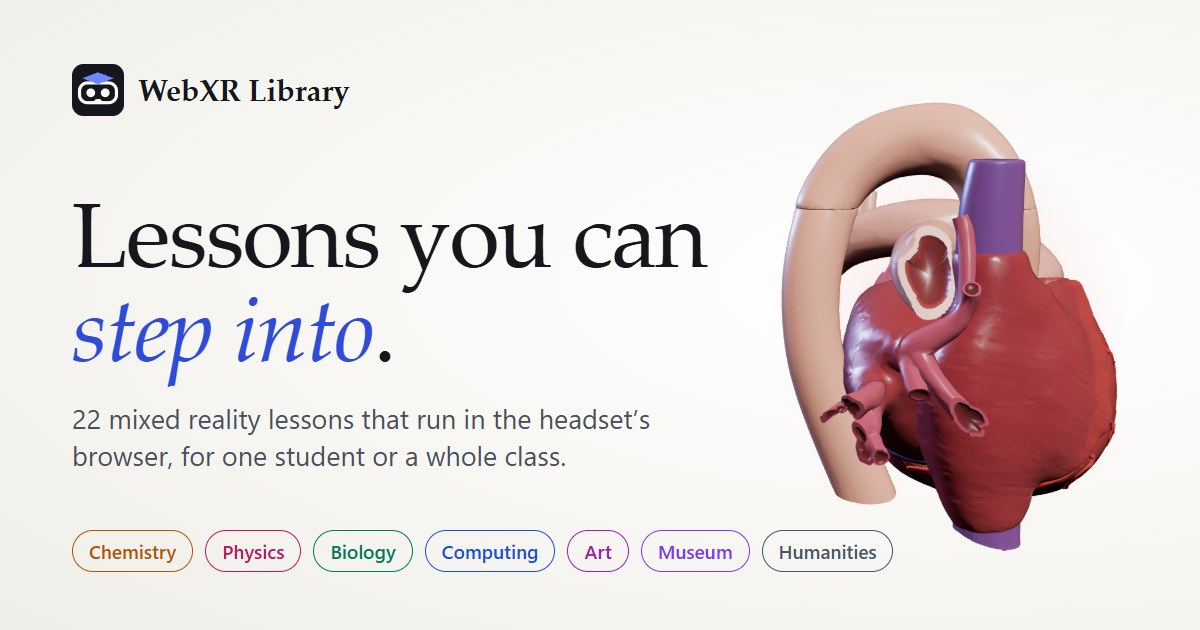
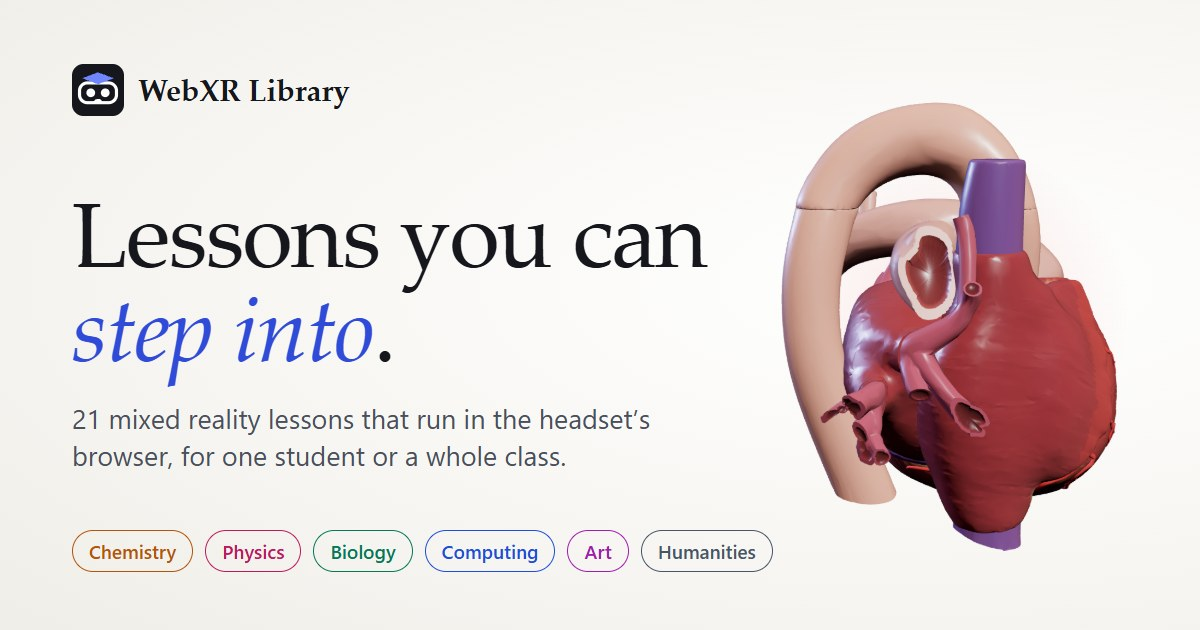
Hiroshima: darker, finer roof tiles; new card pictures; lessons page preview without Museum Visits

diff --git a/lessons/hiroshima/src/world/City.js b/lessons/hiroshima/src/world/City.js
@@ -24,7 +24,7 @@ const HYPO_SITE = { x0: 98, x1: 126, z0: 94, z1: 117 }; // Shima Hospital's plot
 let M = null;
 function mats() {
   if (M) return M;
-  const roof = photo('grey_roof_tiles', 3, 2); // (real tiles: CC0, Poly Haven)
+  const roof = photo('grey_roof_tiles', 5, 3); // (real tiles: CC0, Poly Haven)
   M = {
     house: new THREE.MeshLambertMaterial({ map: houseTexture(false) }),
     roof: new THREE.MeshLambertMaterial({ map: roof }),
@@ -316,7 +316,7 @@ export class City {
       const shop = !p.far && (onStreet(p.x, p.z + 7) || onStreet(p.x, p.z - 7) || onStreet(p.x + 7, p.z) || onStreet(p.x - 7, p.z)) && r() < 0.6;
       const tone = new THREE.Color().setHSL(0.07 + r() * 0.03, 0.18 + r() * 0.12, 0.62 + r() * 0.25);
       bodies[(shop ? 0 : 2) + (st - 1)].push({ x: p.x, z: p.z, sx: w, sy: h, sz: d, ry: p.facing, c: tone, dist: Math.hypot(p.x - HYPO.x, p.z - HYPO.z) });
-      const rt = new THREE.Color().setHSL(0.6, 0.06 + r() * 0.06, 0.55 + r() * 0.25);
+      const rt = new THREE.Color().setHSL(0.6, 0.06 + r() * 0.06, 0.34 + r() * 0.2);
       roofs.push({ x: p.x, y: h, z: p.z, sx: w + 0.7, sy: 1.6 + d * 0.12, sz: d + 0.9, ry: p.facing, c: rt, dist: Math.hypot(p.x - HYPO.x, p.z - HYPO.z) });
       if (st === 2 && !p.far) {
         const off = new THREE.Vector3(0, 0, d / 2 + 0.35).applyAxisAngle(UP, p.facing);
@@ -412,7 +412,7 @@ export class City {
       const h = st === 2 ? 5.8 : 3.3;
       const tone = new THREE.Color().setHSL(0.08, 0.15, today ? 0.85 : 0.75 + r() * 0.2);
       bodies[(r() < 0.4 ? 0 : 2) + (st - 1)].push({ x: p.x, z: p.z, sx: w, sy: h, sz: d, ry: p.facing, c: tone });
-      roofs.push({ x: p.x, y: h, z: p.z, sx: w + 0.6, sy: 1.5 + d * 0.1, sz: d + 0.8, ry: p.facing, c: new THREE.Color().setHSL(0.6, 0.1, today ? 0.5 : 0.62 + r() * 0.2) });
+      roofs.push({ x: p.x, y: h, z: p.z, sx: w + 0.6, sy: 1.5 + d * 0.1, sz: d + 0.8, ry: p.facing, c: new THREE.Color().setHSL(0.6, 0.1, today ? 0.4 : 0.4 + r() * 0.18) });
       if (!p.far) walk.block(p.x - (turned ? d : w) / 2, p.z - (turned ? w : d) / 2, p.x + (turned ? d : w) / 2, p.z + (turned ? w : d) / 2);
     }
     bodies.forEach((b, i) => { if (b.length) group.add(instanced(this.geo.body[i], M.house, b)); });
